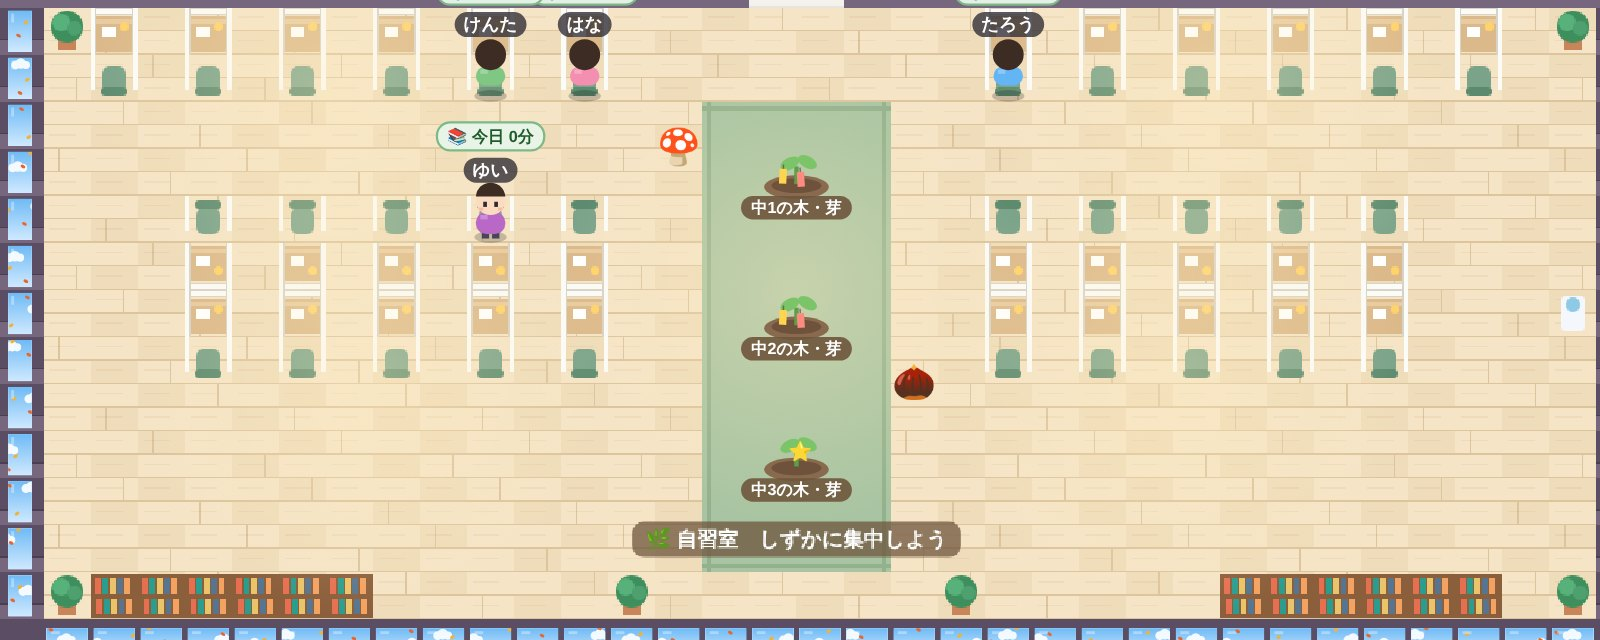
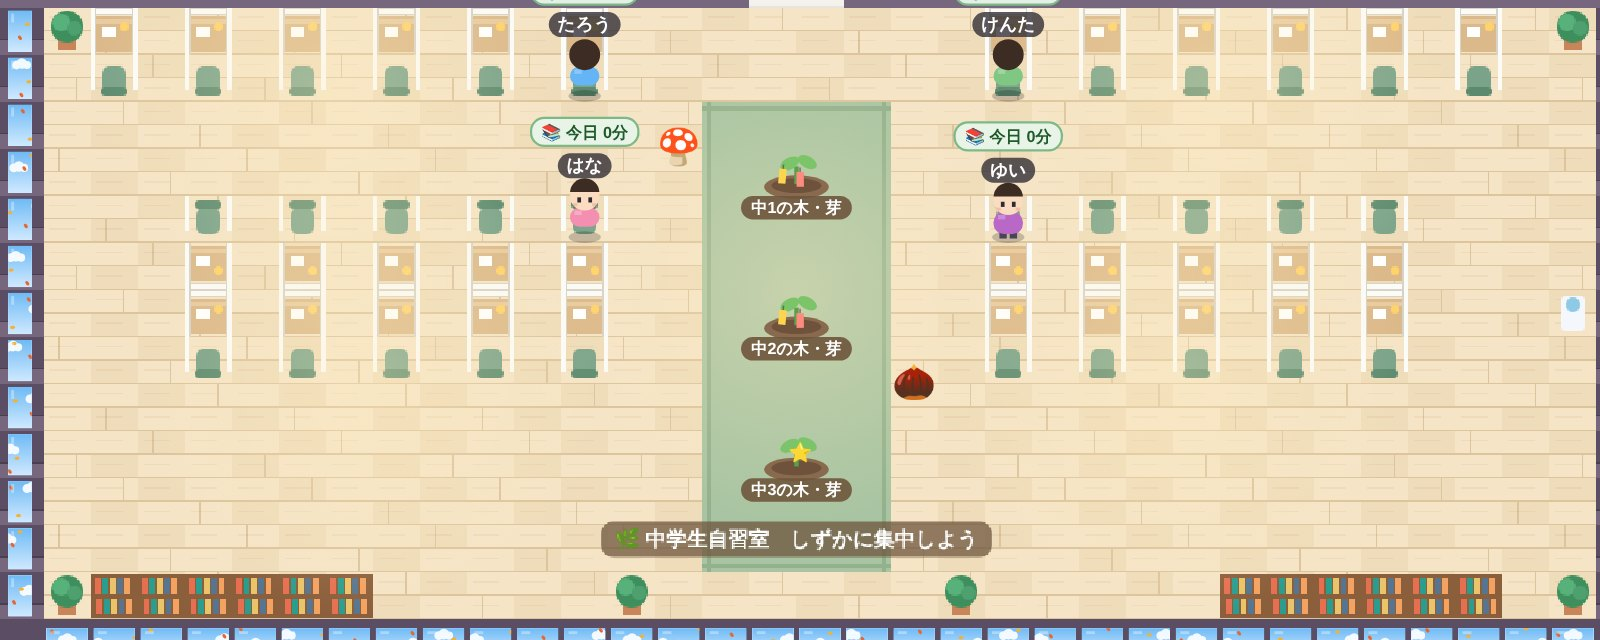
中学生向けの攻略本（A4・1枚）を追加。中学生自習室の写真を新しい名前のものに
Claude-Session: https://claude.ai/code/session_01CVag5cjWZ1Y2GSPw9UHpsB

diff --git a/metaverse/docs/print/jh.html b/metaverse/docs/print/jh.html
@@ -1,0 +1,110 @@
+<!doctype html>
+<html lang="ja">
+<head>
+<meta charset="utf-8">
+<title>中学生 攻略本</title>
+<link rel="stylesheet" href="https://fonts.googleapis.com/css2?family=Zen+Maru+Gothic:wght@500;700;900&display=swap">
+<style>
+  @page { size: A4; margin: 0; }
+  :root { --ink: #1f2a37; --muted: #5d6b7a; --blue: #2f7de1; --teal: #14a3a3; --green: #2fae74; --orange: #ff8a3d; --red: #e5484d; --gold: #f2b233; --navy: #23395d; }
+  * { box-sizing: border-box; }
+  html, body { margin: 0; }
+  body { font-family: 'Zen Maru Gothic', sans-serif; color: var(--ink); font-weight: 700; -webkit-print-color-adjust: exact; print-color-adjust: exact; }
+  .page { width: 210mm; height: 297mm; padding: 6mm 8mm; position: relative; overflow: hidden; display: flex; flex-direction: column; gap: 1.8mm; background: #f2f7fc; }
+  .page::before { content: ''; position: absolute; inset: 0; background-image: linear-gradient(rgba(47,125,225,.07) 1px, transparent 1px), linear-gradient(90deg, rgba(47,125,225,.07) 1px, transparent 1px); background-size: 6mm 6mm; z-index: 0; }
+  .page > * { position: relative; z-index: 1; flex-shrink: 0; }
+  .top { display: grid; grid-template-columns: 1fr 62mm; gap: 3mm; align-items: stretch; }
+  .title { background: linear-gradient(135deg, #23395d, #2f7de1 60%, #14a3a3); color: #fff; border-radius: 5mm; padding: 3.4mm 5mm; box-shadow: 0 1.2mm 0 #162a47; position: relative; overflow: hidden; }
+  .title::after { content: 'LEVEL UP!'; position: absolute; right: 3mm; bottom: 1.5mm; font-size: 9mm; font-weight: 900; color: rgba(255,255,255,.12); letter-spacing: .5mm; }
+  .title small { display: inline-block; background: var(--gold); color: #3a2a00; border-radius: 4mm; padding: .5mm 3mm; font-size: 3.6mm; font-weight: 900; }
+  .title h1 { margin: 1.2mm 0 .6mm; font-size: 10mm; font-weight: 900; line-height: 1.12; }
+  .title p { margin: 0; font-size: 3.7mm; line-height: 1.5; }
+  .shot { border-radius: 3.5mm; overflow: hidden; border: .9mm solid #fff; box-shadow: 0 .8mm 2.2mm rgba(20,40,70,.25); background: #fff; }
+  .shot img { display: block; width: 100%; height: 100%; object-fit: cover; }
+  .sec { display: flex; align-items: center; gap: 2mm; font-size: 5mm; font-weight: 900; color: var(--navy); margin-top: .4mm; }
+  .sec .tag { background: var(--navy); color: #fff; font-size: 3mm; border-radius: 2mm; padding: .4mm 2mm; letter-spacing: .3mm; }
+  .sec::after { content: ''; flex: 1; height: .9mm; border-radius: 1mm; background: linear-gradient(90deg, var(--blue), var(--teal), transparent); }
+  .steps { display: grid; grid-template-columns: repeat(5, 1fr); gap: 1.6mm; }
+  .step { background: #fff; border: .7mm solid #bcd6f5; border-radius: 3.5mm; padding: 1.2mm 1.4mm; text-align: center; position: relative; }
+  .step .n { position: absolute; top: -2.2mm; left: -1.4mm; width: 6mm; height: 6mm; border-radius: 50%; background: var(--blue); color: #fff; font-size: 3.4mm; display: grid; place-items: center; font-weight: 900; }
+  .step .ic { font-size: 5.4mm; line-height: 1.1; }
+  .step b { display: block; font-size: 3.7mm; font-weight: 900; }
+  .step span { font-size: 2.9mm; color: var(--muted); line-height: 1.35; display: block; }
+  .grid3 { display: grid; grid-template-columns: repeat(3, 1fr); gap: 2.2mm; }
+  .card { background: #fff; border-radius: 4mm; padding: 1.8mm 2.6mm; border-left: 2mm solid; box-shadow: 0 .5mm 1.4mm rgba(20,40,70,.1); display: flex; flex-direction: column; gap: 1mm; }
+  .card h2 { margin: 0; font-size: 4.3mm; font-weight: 900; }
+  .card p { margin: 0; font-size: 3.05mm; line-height: 1.4; }
+  .card .shot { height: 17mm; }
+  .card b.hl { color: var(--red); }
+  table.t { width: 100%; border-collapse: collapse; font-size: 3mm; margin-top: .4mm; }
+  table.t td, table.t th { border-bottom: .3mm solid #e2eaf3; padding: .5mm 1mm; text-align: left; }
+  table.t th { background: #eef5ff; font-weight: 900; }
+  .quests { background: #fff; border-radius: 4mm; overflow: hidden; border: .8mm solid #bcd6f5; }
+  .quests table { width: 100%; border-collapse: collapse; font-size: 3.05mm; }
+  .quests th { background: var(--navy); color: #fff; padding: 1.2mm 2mm; text-align: left; font-weight: 900; }
+  .quests td { padding: .8mm 2mm; border-top: .3mm solid #e2eaf3; line-height: 1.35; vertical-align: top; }
+  .quests td b { color: var(--blue); }
+  .quests tr.s td:first-child { font-weight: 900; white-space: nowrap; }
+  .qnote { margin: 0; font-size: 3mm; color: var(--muted); }
+  .rules { display: grid; grid-template-columns: repeat(4, 1fr); gap: 1.6mm; }
+  .rule { background: #fff; border: .7mm dashed #9cbbe0; border-radius: 3.5mm; padding: 1.3mm 2mm; font-size: 2.95mm; line-height: 1.4; }
+  .goal { background: linear-gradient(135deg, #2f7de1, #14a3a3); color: #fff; border-radius: 4mm; padding: 1.8mm 4mm; text-align: center; font-size: 4.4mm; font-weight: 900; box-shadow: 0 1mm 0 #1d5aa8; }
+</style>
+</head>
+<body>
+<section class="page">
+  <div class="top">
+    <div class="title">
+      <small>📚 中学生のための</small>
+      <h1>三浦塾オンライン<br>攻略本</h1>
+      <p>家での勉強は、部活でいう「自主練」。<br>みんなと同じ時間に、同じ場所で、自主練を当たり前にしよう。</p>
+    </div>
+    <div class="shot"><img src="guide2/room_study.jpg" alt="" style="object-position:center 60%"></div>
+  </div>
+
+  <div class="sec"><span class="tag">STEP</span>入室のしかた</div>
+  <div class="steps">
+    <div class="step"><span class="n">1</span><div class="ic">📱</div><b>ログイン</b><span>IDとパスワード（ブラウザでOK）</span></div>
+    <div class="step"><span class="n">2</span><div class="ic">📝</div><b>漢字テスト</b><span>中1：5〜4級／中2：4〜3級／中3：3〜準2級</span></div>
+    <div class="step"><span class="n">3</span><div class="ic">📸</div><b>今日のページ</b><span>問題集・ノートを開いて撮影（1日1回）</span></div>
+    <div class="step"><span class="n">4</span><div class="ic">📚</div><b>中学生自習室へ</b><span>「🏫 へや」で移動</span></div>
+    <div class="step"><span class="n">5</span><div class="ic">🪑</div><b>すわって開始</b><span>すわると時間を記録</span></div>
+  </div>
+
+  <div class="sec"><span class="tag">SYSTEM</span>つよくなるしくみ</div>
+  <div class="grid3">
+    <div class="card" style="border-color:var(--red)"><h2>🔥 連続自習</h2><p>1日の最低時間をこえた日が続くと🔥がふえる。</p>
+      <table class="t"><tr><th>中1</th><th>中2</th><th>中3</th></tr><tr><td>45分</td><td>60分</td><td><b class="hl">90分</b></td></tr></table>
+      <p><b>授業の曜日・保護者会の日</b>はとぎれない。<b>30日</b>で自分だけの<b>マイ席</b>（金色の名前プレート）！</p></div>
+    <div class="card" style="border-color:var(--gold)"><h2>🎁 ポイント</h2><p><b>朝6:00〜7:30・夜19:00〜23:00</b>は<b>10分で1ポイント</b>。時間帯の外も「今日○分」と🔥には入る。</p>
+      <p>中学生は<b>全アイテム解禁</b>！ よろい・宇宙服・ドラゴン・自習王のトロフィー（1000pt）まで。</p></div>
+    <div class="card" style="border-color:var(--green)"><h2>🌳 学年の木と短冊</h2><p>学年の<b>1人あたり平均</b>で、芽→花→実り。競争じゃなく<b>協力</b>。今学期の目標は先生が確認して<b>短冊</b>に、達成で⭐。</p><div class="shot"><img src="guide2/tanzaku.jpg" alt="" style="object-position:left 20%"></div></div>
+    <div class="card" style="border-color:var(--orange)"><h2>🌅 朝活</h2><p>朝6:00〜7:30に<b>30分</b>で＋<b>3ポイント</b>。ロビーの掲示板に名前がのり、名札に🌅。</p><div class="shot"><img src="guide2/asa_board.jpg" alt="" style="object-position:center 15%"></div></div>
+    <div class="card" style="border-color:var(--teal)"><h2>🎤 テスト教室</h2><p>スピーキング・ライティングのテストは「🎤 テストに並ぶ」で順番待ち。<b>待っている間も自習時間</b>になる。</p><div class="shot"><img src="guide2/room_test.jpg" alt=""></div></div>
+    <div class="card" style="border-color:var(--blue)"><h2>👔 先生・オーナー</h2><p>1.4倍大きいスーツ姿。近くに来たら💬で質問OK。<b>個別通話</b>は席にいるまま（🎧マーク）。</p><div class="shot"><img src="guide2/teacher.jpg" alt=""></div></div>
+  </div>
+
+  <div class="sec"><span class="tag">QUEST</span>季節のクエスト（学年の最低時間をこえた日を数える）</div>
+  <div class="quests">
+    <table>
+      <tr><th style="width:24%">クエスト</th><th style="width:20%">期間</th><th>クリア（15日）すると</th></tr>
+      <tr class="s"><td>🎋 1学期中間</td><td><b>5/1〜5/31</b></td><td>織姫と彦星から手紙＋🎋笹かざり（その場で「今すぐつける」）</td></tr>
+      <tr class="s"><td>🎋 1学期期末</td><td><b>6/1〜6/30</b></td><td><b>7/1〜7/20</b> 彦星がついて歩く。両方クリアで<b>織姫</b>も。<b>7/7</b>は天の川</td></tr>
+      <tr class="s"><td>🎅 2学期中間</td><td><b>10/1〜10/31</b></td><td>サンタから手紙＋🎅サンタ帽</td></tr>
+      <tr class="s"><td>🎅 2学期期末</td><td><b>11/1〜11/30</b></td><td><b>12/1〜12/25</b> サンタがついて歩く。両方クリアで<b>トナカイ</b>も。<b>12/25</b>は雪とプレゼント</td></tr>
+      <tr class="s"><td>🎎 3学期学年末</td><td><b>1/20〜2/28</b></td><td><b>3/1〜3/20</b> ひな人形の行列。15日：おだいりさま・おひなさま／20日：＋三人官女／25日：＋五人囃子。<b>3/3</b>はひなあられ</td></tr>
+    </table>
+  </div>
+  <p class="qnote">💡 1か月で15日＝2日に1回より少し多いくらい。学校ごとにテストの日がちがっても大丈夫。画面の左上に「○/15日」。</p>
+
+  <div class="sec"><span class="tag">RULE</span>中学生自習室のルール</div>
+  <div class="rules">
+    <div class="rule">🤫 <b>しずかに集中</b>。生徒どうしの吹き出し・スタンプはなし（先生と話すときだけ）。</div>
+    <div class="rule">📷 <b>見守りカメラ</b>：ランダムな時間に写真が<b>先生だけ</b>に届く。保存はしない。</div>
+    <div class="rule">🪑 <b>10秒</b>立ち歩くと席えらびが出る。かならずすわろう。</div>
+    <div class="rule">📱 アプリを閉じる・ほかの画面を見ると<b>時間が止まる</b>。長時間は充電しながら。</div>
+  </div>
+  <div class="goal">🏆 大会（定期テスト）で勝つのは、毎日の自主練を続けた人。今日も1ページから！</div>
+</section>
+</body>
+</html>
